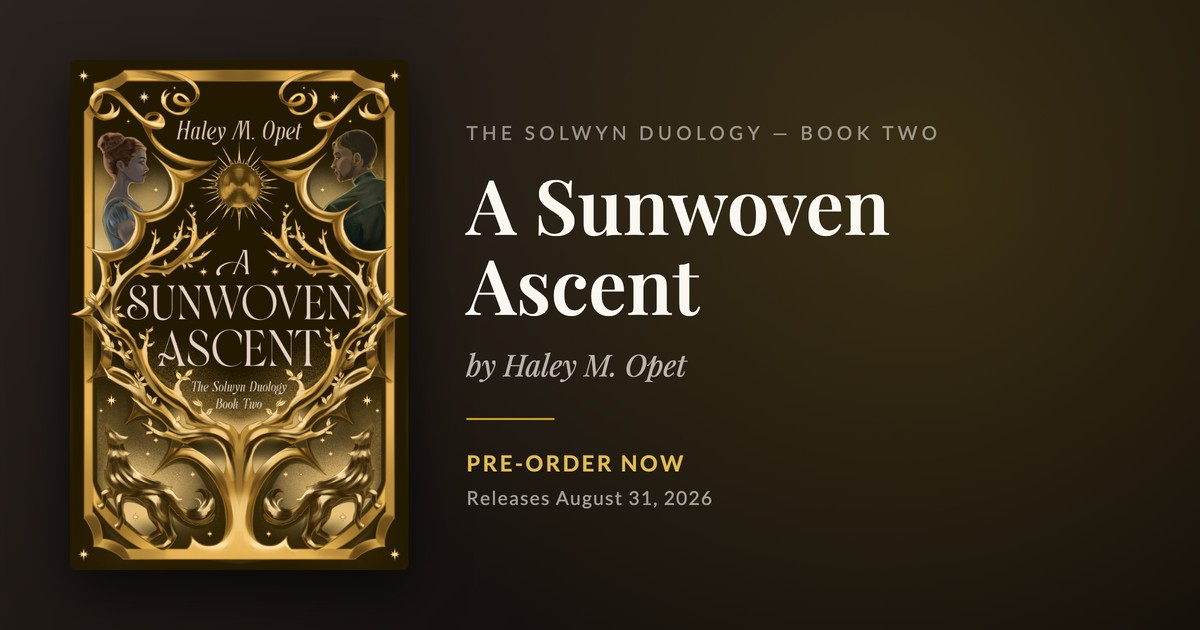
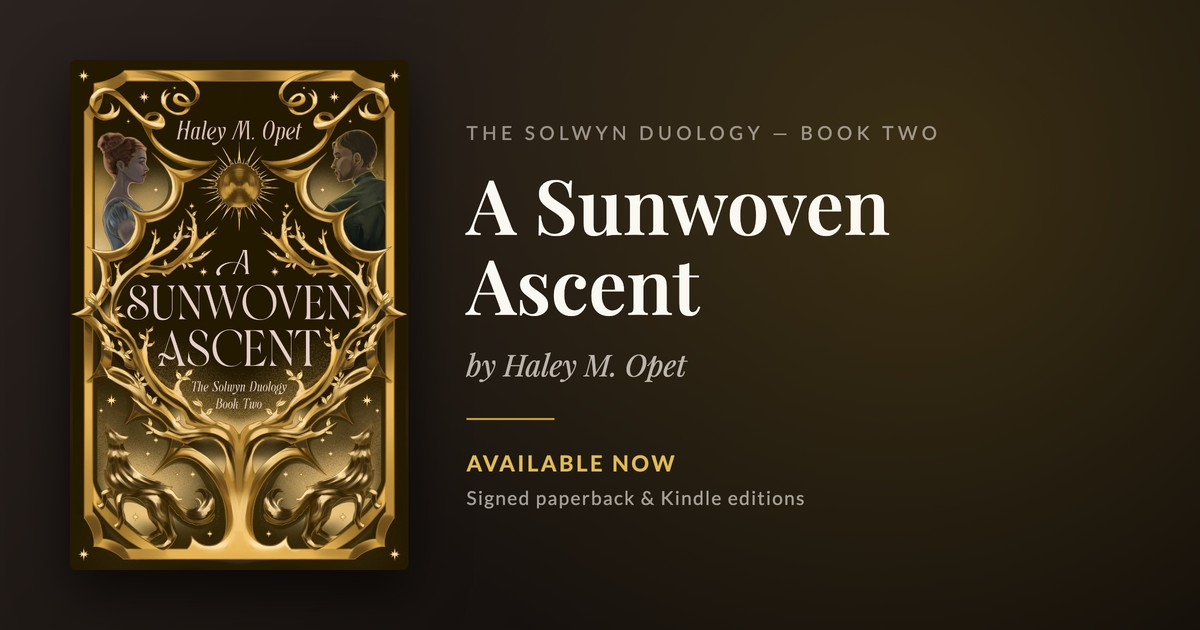
Release A Sunwoven Ascent, add new author photo
Book Two is on sale in paperback and Kindle, so every pre-order framing on the
page is now wrong. Flips the whole flow and adds the Amazon paperback listing
(B0HC9B5KRD) alongside the three indie shops.

- Meta, Open Graph and Twitter tags drop the pre-order/release-date wording;
  page title now carries both book names
- Four schema.org offers PreOrder -> InStock, plus an Amazon paperback offer
- Hero slide and duology card read "Available Now"; dropping Book Two's release
  line also squares up the two cards, which sat at different heights
- Share card regenerated as "Available Now / Signed paperback & Kindle editions"
- Analytics formats drop "Pre-Order" and gain a sunwovenpaperback case. This
  intentionally breaks GA label continuity for Book Two -- the old labels would
  now be wrong. Book One's whereToBuy_* labels are untouched.

New author photo, cropped square at 800x800 (1.59 MB PNG -> 71.6 KB JPEG).

The source is a landscape environmental portrait, so the crop is chosen against
the face rather than centred. Square also fixes a long-standing bug: the About
photo is styled border-radius:50% with no object-fit, so the old 400x500 file
rendered a 300x375 ellipse rather than a circle. It now renders 300x300.

Adds tools/prep_author_photo.py with the original committed under
tools/photo-sources/, matching how logo-sources/ keeps the badges reproducible.
Schema ImageObject updated to 800x800 to match the file on disk.
[…]

Changed region(s): [[0.37, 0.7238, 0.6783, 0.8143]]

diff --git a/index.html b/index.html
@@ -3,20 +3,20 @@
 <head>
     <meta charset="UTF-8">
     <meta name="viewport" content="width=device-width, initial-scale=1.0">
-    <title>A Bloodveiled Descent - Available Now | Haley M. Opet</title>
-    <meta name="description" content="A Bloodveiled Descent by Haley M. Opet - Available now in Kindle and Paperback! Book One of The Solwyn Duology. A dark fantasy romance of duty, magic, and forbidden love. Get your copy today at Amazon, Barnes & Noble, and Books-A-Million.">
-    <meta name="keywords" content="A Bloodveiled Descent, Haley M. Opet, fantasy romance, dark fantasy, werewolf romance, The Solwyn Duology, romantasy, debut novel">
-    <meta property="og:title" content="A Sunwoven Ascent - Pre-Order Now | Haley M. Opet">
-    <meta property="og:description" content="Book Two of The Solwyn Duology. Bound to an alpha and reshaped by magic, Evelyne Duskwood faces the most dangerous journey yet... home. Pre-order the signed paperback or Kindle edition - releases August 31, 2026.">
+    <title>A Bloodveiled Descent &amp; A Sunwoven Ascent | Haley M. Opet</title>
+    <meta name="description" content="The Solwyn Duology by Haley M. Opet. A Bloodveiled Descent and A Sunwoven Ascent - both books available now in Kindle, paperback, and audiobook. A dark fantasy romance of duty, magic, and forbidden love.">
+    <meta name="keywords" content="A Bloodveiled Descent, A Sunwoven Ascent, Haley M. Opet, fantasy romance, dark fantasy, werewolf romance, The Solwyn Duology, romantasy">
+    <meta property="og:title" content="A Sunwoven Ascent - Available Now | Haley M. Opet">
+    <meta property="og:description" content="Book Two of The Solwyn Duology. Bound to an alpha and reshaped by magic, Evelyne Duskwood faces the most dangerous journey yet... home. Available now in signed paperback and Kindle.">
     <meta property="og:image" content="https://haleymopet.com/images/og-sunwoven-ascent.jpg">
     <meta property="og:image:width" content="1200">
     <meta property="og:image:height" content="630">
-    <meta property="og:image:alt" content="A Sunwoven Ascent, Book Two of The Solwyn Duology by Haley M. Opet - pre-order now, releases August 31, 2026">
+    <meta property="og:image:alt" content="A Sunwoven Ascent, Book Two of The Solwyn Duology by Haley M. Opet - available now">
     <meta property="og:url" content="https://haleymopet.com">
     <meta property="og:type" content="website">
     <meta name="twitter:card" content="summary_large_image">
-    <meta name="twitter:title" content="A Sunwoven Ascent - Pre-Order Now">
-    <meta name="twitter:description" content="Book Two of The Solwyn Duology by Haley M. Opet. Pre-order the signed paperback or Kindle edition - releases August 31, 2026.">
+    <meta name="twitter:title" content="A Sunwoven Ascent - Available Now">
+    <meta name="twitter:description" content="Book Two of The Solwyn Duology by Haley M. Opet. Available now in signed paperback and Kindle.">
     <meta name="twitter:image" content="https://haleymopet.com/images/og-sunwoven-ascent.jpg">
     <style>
         :root {
@@ -247,13 +247,13 @@
             margin-bottom: 0.25rem;
         }
 
-        .preorder-perk {
+        .perk-note {
             font-size: 0.85rem;
             color: #666;
             margin: 0.75rem 0 0;
         }
 
-        .preorder-perk i {
+        .perk-note i {
             color: var(--accent-color);
             margin-right: 0.35rem;
         }
@@ -602,11 +602,6 @@
         .duology-status.available {
             background-color: #e8f5e9;
             color: #2e7d32;
-        }
-
-        .duology-status.preorder {
-            background-color: #fff3e0;
-            color: #ef6c00;
         }
 
         .duology-meta {
@@ -1505,7 +1500,7 @@
               "@type": "Offer",
               "price": "4.99",
               "priceCurrency": "USD",
-              "availability": "https://schema.org/PreOrder",
+              "availability": "https://schema.org/InStock",
               "url": "https://www.amazon.com/Sunwoven-Ascent-Book-Solwyn-Duology-ebook/dp/B0H42W3FC1",
               "seller": {
                 "@type": "Organization",
@@ -1532,7 +1527,18 @@
               "@type": "Offer",
               "price": "19.99",
               "priceCurrency": "USD",
-              "availability": "https://schema.org/PreOrder",
+              "availability": "https://schema.org/InStock",
+              "url": "https://www.amazon.com/dp/B0HC9B5KRD",
+              "seller": {
+                "@type": "Organization",
+                "name": "Amazon"
+              }
+            },
+            {
+              "@type": "Offer",
+              "price": "19.99",
+              "priceCurrency": "USD",
+              "availability": "https://schema.org/InStock",
               "url": "https://www.flightoffantasybooks.com/shop/p/a-sunwoven-ascent",
               "seller": {
                 "@type": "Organization",
@@ -1543,7 +1549,7 @@
               "@type": "Offer",
               "price": "19.99",
               "priceCurrency": "USD",
-              "availability": "https://schema.org/PreOrder",
+              "availability": "https://schema.org/InStock",
               "url": "https://www.thecraftybookstore.com/product-page/a-sunwoven-ascent",
               "seller": {
                 "@type": "Organization",
@@ -1554,7 +1560,7 @@
               "@type": "Offer",
               "price": "19.99",
               "priceCurrency": "USD",
-              "availability": "https://schema.org/PreOrder",
+              "availability": "https://schema.org/InStock",
               "url": "https://thefatedchapterbookstore.com/products/a-sunwoven-ascent",
               "seller": {
                 "@type": "Organization",
@@ -1570,7 +1576,7 @@
       "@id": "https://haleymopet.com/#person",
       "name": "Haley M. Opet",
       "url": "https://haleymopet.com",
-      "image": "https://haleymopet.com/images/haley-headshot-400.jpg",
+      "image": "https://haleymopet.com/images/haley-headshot.jpg",
       "description": "Haley M. Opet is a fantasy writer, mother, and dreamer who weaves tales of magic, intrigue, and adventure.",
       "sameAs": [
         "https://www.tiktok.com/@haleymopet",
@@ -1747,19 +1753,19 @@
     {
       "@type": "ImageObject",
       "@id": "https://haleymopet.com/#authorimage",
-      "contentUrl": "https://haleymopet.com/images/haley-headshot-400.jpg",
-      "url": "https://haleymopet.com/images/haley-headshot-400.jpg",
+      "contentUrl": "https://haleymopet.com/images/haley-headshot.jpg",
+      "url": "https://haleymopet.com/images/haley-headshot.jpg",
       "name": "Haley M. Opet - Author Photo",
       "caption": "Haley M. Opet",
-      "description": "Author headshot of Haley M. Opet, fantasy writer and author of A Bloodveiled Descent.",
+      "description": "Author headshot of Haley M. Opet, fantasy writer and author of The Solwyn Duology.",
       "width": {
         "@type": "QuantitativeValue",
-        "value": 400,
+        "value": 800,
         "unitCode": "E37"
       },
       "height": {
         "@type": "QuantitativeValue",
-        "value": 500,
+        "value": 800,
         "unitCode": "E37"
       },
       "encodingFormat": "image/jpeg",
@@ -1906,28 +1912,35 @@
                     break;
                 case 'sunwovenkindle':
                     retailer = 'Amazon';
-                    format = 'Kindle Pre-Order';
+                    format = 'Kindle';
                     itemId = 'B0H42W3FC1';
                     price = 4.99;
                     bookTitle = 'A Sunwoven Ascent';
                     break;
+                case 'sunwovenpaperback':
+                    retailer = 'Amazon';
+                    format = 'Paperback';
+                    itemId = 'B0HC9B5KRD';
+                    price = 19.99;
+                    bookTitle = 'A Sunwoven Ascent';
+                    break;
                 case 'flightoffantasy':
                     retailer = 'Flight of Fantasy Books';
-                    format = 'Paperback Pre-Order';
+                    format = 'Paperback';
                     itemId = 'flight-of-fantasy-books';
                     price = 19.99;
                     bookTitle = 'A Sunwoven Ascent';
                     break;
                 case 'craftybookstore':
                     retailer = 'The Crafty Bookstore';
-                    format = 'Paperback Pre-Order';
+                    format = 'Paperback';
                     itemId = 'the-crafty-bookstore';
                     price = 19.99;
                     bookTitle = 'A Sunwoven Ascent';
                     break;
                 case 'fatedchapter':
                     retailer = 'The Fated Chapter';
-                    format = 'Paperback Pre-Order';
+                    format = 'Paperback';
                     itemId = 'the-fated-chapter';
                     price = 19.99;
                     bookTitle = 'A Sunwoven Ascent';
@@ -2015,11 +2028,11 @@
     <section id="home" class="hero section">
         <div class="container">
             <div class="hero-carousel" id="hero-carousel">
-                <!-- Slide 1: A Sunwoven Ascent (Pre-Order) -->
+                <!-- Slide 1: A Sunwoven Ascent (Available Now) -->
                 <div class="hero-slide active" data-slide="0">
                     <div class="hero-inner">
                         <div class="hero-content">
-                            <p class="release-date"><i class="fas fa-star"></i> Pre-Order &mdash; Releases August 31, 2026</p>
+                            <p class="release-date"><i class="fas fa-star"></i> Available Now</p>
                             <h1 class="hero-title">A Sunwoven Ascent</h1>
                             <p class="hero-subtitle">Book Two of The Solwyn Duology</p>
                             <p class="hero-subtitle">Bound to an alpha and reshaped by magic, Evelyne Duskwood faces the most dangerous journey yet... home.</p>
@@ -2027,19 +2040,20 @@
                             <div class="hero-purchase-section">
                                 <p class="purchase-label">Signed Paperback &mdash; $19.99</p>
                                 <div class="retailer-badges">
-                                    <a href="https://www.flightoffantasybooks.com/shop/p/a-sunwoven-ascent" target="_blank" rel="noopener noreferrer" class="retailer-badge" title="Pre-order from Flight of Fantasy Book Shop" onclick="trackPurchase('heroBook2_flightoffantasy')">
+                                    <a href="https://www.flightoffantasybooks.com/shop/p/a-sunwoven-ascent" target="_blank" rel="noopener noreferrer" class="retailer-badge" title="Buy from Flight of Fantasy Book Shop" onclick="trackPurchase('heroBook2_flightoffantasy')">
                                         <img src="images/retailers/flight-of-fantasy.png" alt="Flight of Fantasy Book Shop" loading="lazy">
                                     </a>
-                                    <a href="https://www.thecraftybookstore.com/product-page/a-sunwoven-ascent" target="_blank" rel="noopener noreferrer" class="retailer-badge" title="Pre-order from The Crafty Bookstore" onclick="trackPurchase('heroBook2_craftybookstore')">
+                                    <a href="https://www.thecraftybookstore.com/product-page/a-sunwoven-ascent" target="_blank" rel="noopener noreferrer" class="retailer-badge" title="Buy from The Crafty Bookstore" onclick="trackPurchase('heroBook2_craftybookstore')">
                                         <img src="images/retailers/the-crafty-bookstore.png" alt="The Crafty Bookstore" loading="lazy">
                                     </a>
-                                    <a href="https://thefatedchapterbookstore.com/products/a-sunwoven-ascent" target="_blank" rel="noopener noreferrer" class="retailer-badge" title="Pre-order from The Fated Chapter Bookstore" onclick="trackPurchase('heroBook2_fatedchapter')">
+                                    <a href="https://thefatedchapterbookstore.com/products/a-sunwoven-ascent" target="_blank" rel="noopener noreferrer" class="retailer-badge" title="Buy from The Fated Chapter Bookstore" onclick="trackPurchase('heroBook2_fatedchapter')">
                                         <img src="images/retailers/the-fated-chapter.png" alt="The Fated Chapter Bookstore" loading="lazy">
                                     </a>
                                 </div>
-                                <p class="preorder-perk"><i class="fas fa-gift"></i>Indie pre-orders include a signed bookplate &amp; bookish extras</p>
+                                <p class="perk-note"><i class="fas fa-gift"></i>Signed copies from indie shops include a bookplate &amp; bookish extras</p>
                                 <div class="hero-buttons">
                                     <a href="https://www.amazon.com/Sunwoven-Ascent-Book-Solwyn-Duology-ebook/dp/B0H42W3FC1" target="_blank" rel="noopener noreferrer" class="btn btn-amazon" onclick="trackPurchase('heroBook2_sunwovenkindle')"><i class="fab fa-amazon"></i>&nbsp; Kindle eBook &mdash; $4.99</a>
+                                    <a href="https://www.amazon.com/dp/B0HC9B5KRD" target="_blank" rel="noopener noreferrer" class="btn btn-paperback" onclick="trackPurchase('heroBook2_sunwovenpaperback')"><i class="fab fa-amazon"></i>&nbsp; Amazon Paperback &mdash; $19.99</a>
                                 </div>
                             </div>
                         </div>
@@ -2140,27 +2154,27 @@
                     <img class="duology-cover" src="images/ASunwovenAscent-Ebook.jpg" alt="A Sunwoven Ascent - Book Two of The Solwyn Duology" loading="lazy">
                     <p class="duology-book-num">Book Two</p>
                     <h3 class="duology-book-title">A Sunwoven Ascent</h3>
-                    <span class="duology-status preorder">Pre-Order</span>
-                    <p class="duology-meta">Releases August 31, 2026</p>
+                    <span class="duology-status available">Available Now</span>
                     <ul class="duology-prices">
                         <li><span class="fmt">Kindle</span><span class="amt">$4.99</span></li>
                         <li><span class="fmt">Signed Paperback</span><span class="amt">$19.99</span></li>
                     </ul>
                     <p class="duology-label">Signed paperback from indie shops</p>
                     <div class="retailer-badges">
-                        <a href="https://www.flightoffantasybooks.com/shop/p/a-sunwoven-ascent" target="_blank" rel="noopener noreferrer" class="retailer-badge" title="Pre-order from Flight of Fantasy Book Shop" onclick="trackPurchase('preorderBook2_flightoffantasy')">
+                        <a href="https://www.flightoffantasybooks.com/shop/p/a-sunwoven-ascent" target="_blank" rel="noopener noreferrer" class="retailer-badge" title="Buy from Flight of Fantasy Book Shop" onclick="trackPurchase('duologyBook2_flightoffantasy')">
                             <img src="images/retailers/flight-of-fantasy.png" alt="Flight of Fantasy Book Shop" loading="lazy">
                         </a>
-                        <a href="https://www.thecraftybookstore.com/product-page/a-sunwoven-ascent" target="_blank" rel="noopener noreferrer" class="retailer-badge" title="Pre-order from The Crafty Bookstore" onclick="trackPurchase('preorderBook2_craftybookstore')">
+                        <a href="https://www.thecraftybookstore.com/product-page/a-sunwoven-ascent" target="_blank" rel="noopener noreferrer" class="retailer-badge" title="Buy from The Crafty Bookstore" onclick="trackPurchase('duologyBook2_craftybookstore')">
                             <img src="images/retailers/the-crafty-bookstore.png" alt="The Crafty Bookstore" loading="lazy">
                         </a>
-                        <a href="https://thefatedchapterbookstore.com/products/a-sunwoven-ascent" target="_blank" rel="noopener noreferrer" class="retailer-badge" title="Pre-order from The Fated Chapter Bookstore" onclick="trackPurchase('preorderBook2_fatedchapter')">
+                        <a href="https://thefatedchapterbookstore.com/products/a-sunwoven-ascent" target="_blank" rel="noopener noreferrer" class="retailer-badge" title="Buy from The Fated Chapter Bookstore" onclick="trackPurchase('duologyBook2_fatedchapter')">
                             <img src="images/retailers/the-fated-chapter.png" alt="The Fated Chapter Bookstore" loading="lazy">
                         </a>
                     </div>
-                    <p class="duology-perk">Includes a signed bookplate &amp; bookish extras</p>
+                    <p class="duology-perk">Signed copies include a bookplate &amp; bookish extras</p>
                     <div class="duology-buys">
-                        <a href="https://www.amazon.com/Sunwoven-Ascent-Book-Solwyn-Duology-ebook/dp/B0H42W3FC1" target="_blank" rel="noopener noreferrer" class="btn btn-amazon" onclick="trackPurchase('preorderBook2_sunwovenkindle')"><i class="fab fa-amazon"></i>&nbsp; Kindle eBook</a>
+                        <a href="https://www.amazon.com/Sunwoven-Ascent-Book-Solwyn-Duology-ebook/dp/B0H42W3FC1" target="_blank" rel="noopener noreferrer" class="btn btn-amazon" onclick="trackPurchase('duologyBook2_sunwovenkindle')"><i class="fab fa-amazon"></i>&nbsp; Kindle eBook</a>
+                        <a href="https://www.amazon.com/dp/B0HC9B5KRD" target="_blank" rel="noopener noreferrer" class="btn btn-paperback" onclick="trackPurchase('duologyBook2_sunwovenpaperback')"><i class="fab fa-amazon"></i>&nbsp; Paperback</a>
                     </div>
                 </div>
             </div>
@@ -2173,7 +2187,7 @@
             <div class="about-content">
                 <h2 class="section-title">About the Author</h2>
                 <div style="text-align: center; margin-bottom: 2rem;">
-                    <img src="images/haley-headshot-400.jpg" alt="Haley M. Opet" style="border-radius: 50%; max-width: 300px; width: 100%; box-shadow: 0 5px 15px rgba(0, 0, 0, 0.1);">
+                    <img src="images/haley-headshot.jpg" alt="Haley M. Opet" style="border-radius: 50%; max-width: 300px; width: 100%; box-shadow: 0 5px 15px rgba(0, 0, 0, 0.1);">
                 </div>
                 <div class="about-text">
                     <p>Haley M. Opet is a fantasy writer, mother, and dreamer who weaves tales of magic, intrigue, and adventure.</p>

diff --git a/tools/prep_author_photo.py b/tools/prep_author_photo.py
@@ -1,0 +1,71 @@
+#!/usr/bin/env python3
+"""Crop and compress the author headshot for the About section.
+
+The source is a landscape environmental portrait (1620x1080) -- the subject is
+off-centre with a house and lawn around her -- so a centre-crop lands on her
+shoulder. The crop boxes below are chosen against the face position instead.
+
+The About photo is styled `border-radius: 50%` at a 300px display width, so the
+visible area is the inscribed circle: keep the face centred horizontally and a
+little above centre, and expect the corners to be discarded.
+
+    python3 tools/prep_author_photo.py            # writes the VARIANT below
+    python3 tools/prep_author_photo.py --all      # both variants, for comparison
+
+Run only when the author photo changes. NOT a build step -- the output is
+committed, and this already emits a final optimized JPEG, so it deliberately is
+not re-run by tools/optimize_images.py (a second lossy pass would only degrade
+it).
+
+Note: changing the output dimensions means updating the matching schema.org
+ImageObject width/height in index.html, or the structured data will describe a
+file that no longer exists at those dimensions.
+"""
+import sys
+from pathlib import Path
+
+from PIL import Image
+
+REPO = Path(__file__).resolve().parent.parent
+SOURCE = Path(__file__).resolve().parent / "photo-sources" / "haley-profile-aug2026.png"
+OUT = REPO / "images" / "haley-headshot.jpg"
+
+QUALITY = 88
+
+# Crop boxes are (left, top, right, bottom) in source pixels, both centred on
+# the face at x=880 and placing it ~35% down the frame. 800px wide is ~2.7x the
+# 300px display slot; the 1080px-tall source cannot reach a true 3x without
+# upscaling, which would only soften the result.
+VARIANTS = {
+    "square":   (480,  90, 1280,  890),   # 800x800  -- true circle
+    "portrait": (480,  20, 1280, 1020),   # 800x1000 -- 4:5, matches the old file
+}
+
+# Which variant becomes images/haley-headshot.jpg
+VARIANT = "square"
+
+
+def render(name: str, dest: Path) -> tuple[int, int]:
+    if not SOURCE.exists():
+        raise SystemExit(f"source not found: {SOURCE}")
+    img = Image.open(SOURCE).convert("RGB").crop(VARIANTS[name])
+    dest.parent.mkdir(parents=True, exist_ok=True)
+    img.save(dest, "JPEG", quality=QUALITY, optimize=True, progressive=True)
+    kb = dest.stat().st_size / 1024
+    print(f"  {name:9} {img.width}x{img.height}  ->  {dest.name}  ({kb:.1f} KB)")
+    return img.size
+
+
+def main() -> None:
+    if "--all" in sys.argv:
+        for name in VARIANTS:
+            render(name, OUT.with_name(f"haley-headshot-{name}.jpg"))
+        print("\nboth variants written for comparison -- neither is the live file")
+        return
+
+    w, h = render(VARIANT, OUT)
+    print(f"\nremember: schema.org ImageObject in index.html must read {w}x{h}")
+
+
+if __name__ == "__main__":
+    main()

diff --git a/tools/make_og_card.py b/tools/make_og_card.py
@@ -30,8 +30,8 @@ OUT = REPO / "images" / "og-sunwoven-ascent.jpg"
 EYEBROW = "The Solwyn Duology &mdash; Book Two"
 TITLE = "A Sunwoven Ascent"
 AUTHOR = "by Haley M. Opet"
-CALLOUT = "Pre-Order Now"
-SUBLINE = "Releases August 31, 2026"
+CALLOUT = "Available Now"
+SUBLINE = "Signed paperback &amp; Kindle editions"
 # ---------------------------------------------------------------------------
 
 WIDTH, HEIGHT = 1200, 630

diff --git a/CLAUDE.md b/CLAUDE.md
@@ -82,8 +82,10 @@ Author website for Haley M. Opet, promoting her debut novel "A Bloodveiled Desce
 │   ├── optimize_images.py      # Resize/compress covers and logos
 │   ├── make_og_card.py         # Render the social share card
 │   ├── prep_retailer_logos.py  # Build bookshop badges from sources
+│   ├── prep_author_photo.py    # Crop/compress the author headshot
 │   ├── requirements.txt        # Tooling deps (Pillow, playwright)
-│   └── logo-sources/           # Bookshop logo originals (CDN URLs rot)
+│   ├── logo-sources/           # Bookshop logo originals (CDN URLs rot)
+│   └── photo-sources/          # Author photo originals
 └── .github/workflows/
     ├── deploy.yml              # Deployment with GA4 injection
     └── update-instagram.yml     # Manual Instagram update
@@ -170,6 +172,7 @@ pip install -r tools/requirements.txt
 python3 tools/optimize_images.py       # after adding any cover or logo
 python3 tools/make_og_card.py          # when the featured book changes
 python3 tools/prep_retailer_logos.py   # when a bookshop rebrands
+python3 tools/prep_author_photo.py     # when the author photo changes
 ```
 Covers must be optimized before committing — raw exports run 5-8 MB against a
 400px render slot. These are manual steps by design; see `tools/README.md` for

diff --git a/tools/README.md b/tools/README.md
@@ -19,6 +19,7 @@ python -m playwright install chromium   # only needed for make_og_card.py
 | `optimize_images.py` | After adding any cover or logo | Resizes/compresses in place |
 | `make_og_card.py` | The featured book changes | `images/og-sunwoven-ascent.jpg` |
 | `prep_retailer_logos.py` | A bookshop rebrands, or badges get resized | `images/retailers/*.png` |
+| `prep_author_photo.py` | The author photo changes | `images/haley-headshot.jpg` |
 
 ### optimize_images.py
 
@@ -55,6 +56,20 @@ from Squarespace/Wix/Shopify CDNs whose hashed URLs will eventually rot. The
 original source URLs are recorded in the script.
 
 Run `optimize_images.py` afterwards to scale the badges to their final size.
+
+### prep_author_photo.py
+
+Crops and compresses the author headshot. The source is a landscape
+environmental portrait, so a centre-crop lands on the subject's shoulder --
+the crop boxes are chosen against the face position instead.
+
+The About photo is styled `border-radius: 50%`, so the visible area is the
+inscribed circle: a square crop renders a true circle, while a non-square one
+renders an ellipse. Two variants are defined; `--all` writes both for
+comparison without touching the live file.
+
+This emits a final optimized JPEG, so `optimize_images.py` deliberately skips
+it -- a second lossy pass would only degrade it.
 
 ## Why not in CI
 
